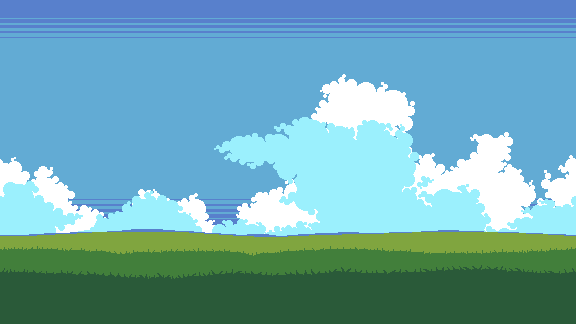
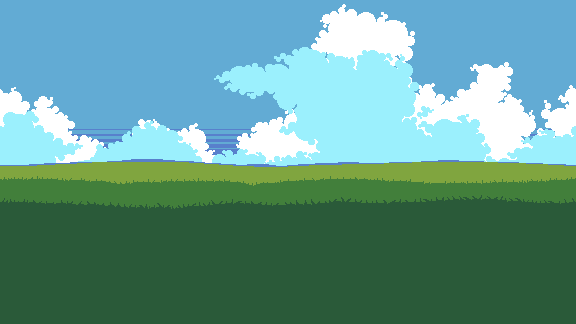
Map new idea progress, loading

diff --git a/game/scene.go b/game/scene.go
@@ -11,8 +11,9 @@ const TileSize, MapCount = 32, 4
 var View graphics.View
 var Background graphics.Object
 
-var LayerGrid, LayerMap assets.TileLayerId
-var TilesMap graphics.Object
+var GridLayer, MapLayer assets.TileLayerId
+var Map, AllyBase, EnemyBase graphics.Object
+var AllyGates, EnemyGates [2]graphics.Object
 
 func InitScene() {
 	View = graphics.NewView(5.68)
@@ -20,9 +21,18 @@ func InitScene() {
 	Background = graphics.NewSprite(0, 0, 1, assets.LoadImage("data/bgr-field.png"))
 
 	var layers = assets.LoadTileLayersFromTiled("data/map.tmx")
-	LayerGrid = layers[len(layers)-1]
-	LayerMap = layers[0]
-	TilesMap = graphics.NewTilemap(1, LayerMap)
+	GridLayer = layers[len(layers)-1]
+	MapLayer = layers[0]
+	Map = graphics.NewTilemap(1, MapLayer)
+	AllyBase = graphics.NewTilemap(1, layers[1])
+	AllyGates[0] = graphics.NewTilemap(1, layers[11])
+	AllyGates[1] = graphics.NewTilemap(1, layers[11])
+	EnemyBase = graphics.NewTilemap(1, layers[1])
+	EnemyGates[0] = graphics.NewTilemap(1, layers[10])
+	EnemyGates[1] = graphics.NewTilemap(1, layers[10])
+	EnemyBase.Width *= -1
+	EnemyGates[0].Width *= -1
+	EnemyGates[1].Width *= -1
 
 	SpawnUnit(CharacterMan, TeamAlly)
 	SpawnUnit(CharacterWoman, TeamEnemy)
@@ -38,17 +48,23 @@ func UpdateScene() {
 	View.DrawColor(skyColor)
 	View.DrawObject(&Background)
 
-	View.DrawObject(&TilesMap)
+	View.DrawObject(&Map)
+	View.DrawObject(&AllyBase)
+	View.DrawObject(&AllyGates[0])
+	View.DrawObject(&AllyGates[1])
+	View.DrawObject(&EnemyBase)
+	View.DrawObject(&EnemyGates[0])
+	View.DrawObject(&EnemyGates[1])
 }
 
 func PointAtCell(cellX, cellY float32) (x, y float32) {
-	var tw, th = LayerGrid.TileSize()
-	var cols, rows = LayerGrid.Size()
+	var tw, th = GridLayer.TileSize()
+	var cols, rows = GridLayer.Size()
 	return (cellX-float32(cols)/2)*tw + (tw / 2), (cellY-float32(rows)/2)*th + (th / 2)
 }
 func CellAtPoint(x, y float32) (cellX, cellY float32) {
-	var tw, th = LayerGrid.TileSize()
-	var cols, rows = LayerGrid.Size()
+	var tw, th = GridLayer.TileSize()
+	var cols, rows = GridLayer.Size()
 	return x/tw + float32(cols)/2, y/th + float32(rows)/2
 }
 func TileAtCell(cellX, cellY int, layer assets.TileLayerId) assets.Tile {

diff --git a/game/unit.go b/game/unit.go
@@ -129,10 +129,10 @@ func (u *Unit) applyCollisions() {
 	var hb = u.Hitbox()
 	var diffX, diffY = u.X - hb.X, u.Y - hb.Y // cache hitbox and obj offset
 	var cellX, cellY = CellAtPoint(u.X, u.Y)
-	var tileDown = LayerMap.TileAtCell(int(cellX), int(cellY)+1).Id
-	var tileLeft = LayerMap.TileAtCell(int(cellX)-1, int(cellY)).Id
-	var tileRight = LayerMap.TileAtCell(int(cellX)+1, int(cellY)).Id
-	var tileCenter = LayerMap.TileAtCell(int(cellX), int(cellY)).Id
+	var tileDown = MapLayer.TileAtCell(int(cellX), int(cellY)+1).Id
+	var tileLeft = MapLayer.TileAtCell(int(cellX)-1, int(cellY)).Id
+	var tileRight = MapLayer.TileAtCell(int(cellX)+1, int(cellY)).Id
+	var tileCenter = MapLayer.TileAtCell(int(cellX), int(cellY)).Id
 
 	u.SolidsAll = collection.Clear(u.SolidsAll)
 	u.SolidsDown = collection.Clear(u.SolidsDown)
@@ -140,16 +140,16 @@ func (u *Unit) applyCollisions() {
 	u.SolidsRight = collection.Clear(u.SolidsRight)
 	u.SolidsCenter = collection.Clear(u.SolidsCenter)
 	if collection.Contains(u.CollidableTileIds, tileDown) {
-		u.SolidsDown = TilesMap.TilemapShapesAtCell(int(cellX), int(cellY)+1)
+		u.SolidsDown = Map.TilemapShapesAtCell(int(cellX), int(cellY)+1)
 	}
 	if collection.Contains(u.CollidableTileIds, tileLeft) {
-		u.SolidsLeft = TilesMap.TilemapShapesAtCell(int(cellX)-1, int(cellY))
+		u.SolidsLeft = Map.TilemapShapesAtCell(int(cellX)-1, int(cellY))
 	}
 	if collection.Contains(u.CollidableTileIds, tileRight) {
-		u.SolidsRight = TilesMap.TilemapShapesAtCell(int(cellX)+1, int(cellY))
+		u.SolidsRight = Map.TilemapShapesAtCell(int(cellX)+1, int(cellY))
 	}
 	if collection.Contains(u.CollidableTileIds, tileCenter) {
-		u.SolidsCenter = TilesMap.TilemapShapesAtCell(int(cellX), int(cellY))
+		u.SolidsCenter = Map.TilemapShapesAtCell(int(cellX), int(cellY))
 	}
 	u.SolidsAll = collection.Join(u.SolidsAll, u.SolidsCenter, u.SolidsDown, u.SolidsLeft, u.SolidsRight)
 	u.IsGrounded = false

diff --git a/game/character-woman.go b/game/character-woman.go
@@ -4,7 +4,7 @@ import "pure-game-kit/packages/geometry"
 
 func CharacterDataWoman() CharacterData {
 	return CharacterData{AnimationPrefix: "woman", Brain: BrainWoman,
-		Stats:  Stats{Name: "Woman", Health: 5, Damage: 1, Speed: 20, Duty: DutyMiddle},
+		Stats:  Stats{Name: "Woman", Health: 5, Damage: 1, Speed: 20, Duty: DutyHigh},
 		Hitbox: geometry.NewRoundedRectangle(0, 7, 18, 30, 0, 1)}
 }
 func BrainWoman(self *Unit) {

diff --git a/game/debug.go b/game/debug.go
@@ -6,7 +6,7 @@ import (
 	"pure-game-kit/packages/utility/color"
 )
 
-var Debug = true
+var Debug = false
 
 var DebugUnitColor = color.TagRGBA("rgba(0, 255, 0, 0.5)")
 var DebugHitboxColor = color.TagRGBA("rgba(255, 0, 0, 0.5)")